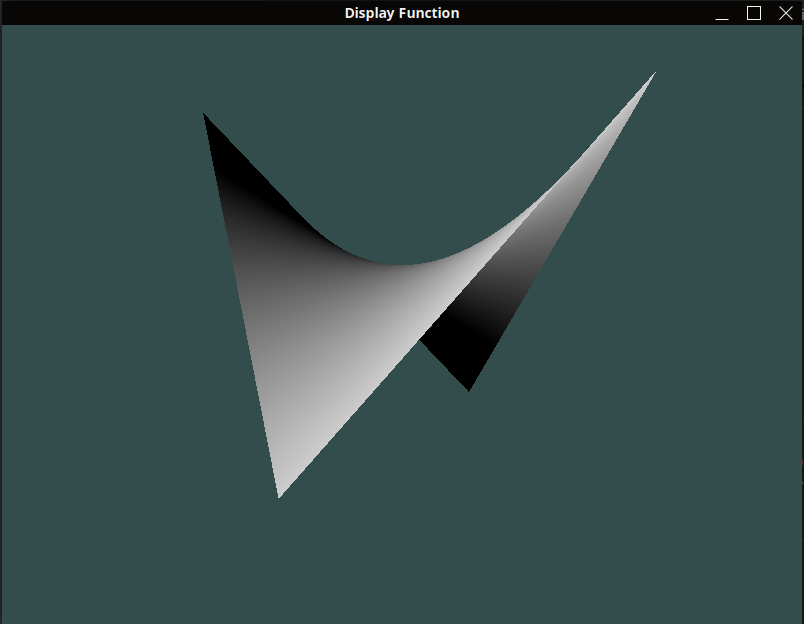
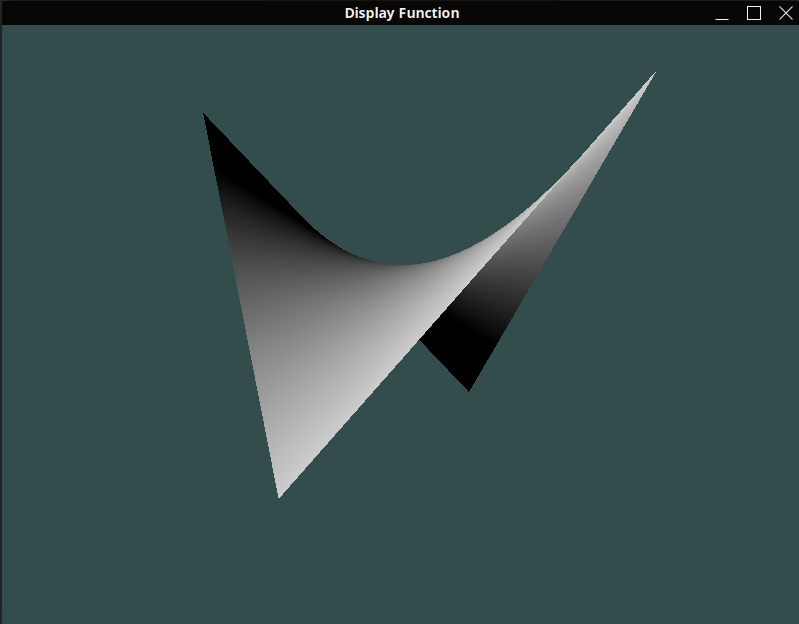
preparing project 6

diff --git a/projects/project6.html b/projects/project6.html
@@ -6,7 +6,7 @@
     <link rel="stylesheet" href="https://cdnjs.cloudflare.com/ajax/libs/font-awesome/6.5.1/css/all.min.css">
     <link rel="stylesheet" href="../style.css"> 
     <script type="module" src="https://ajax.googleapis.com/ajax/libs/model-viewer/3.3.0/model-viewer.min.js"></script>
-    <link rel="icon" type="image/png" href="../attachments/project6/mask.ico">
+    <link rel="icon" type="image/png" href="../attachments/project6/icon.ico">
 </head>
 <body>
     <header class="header">
